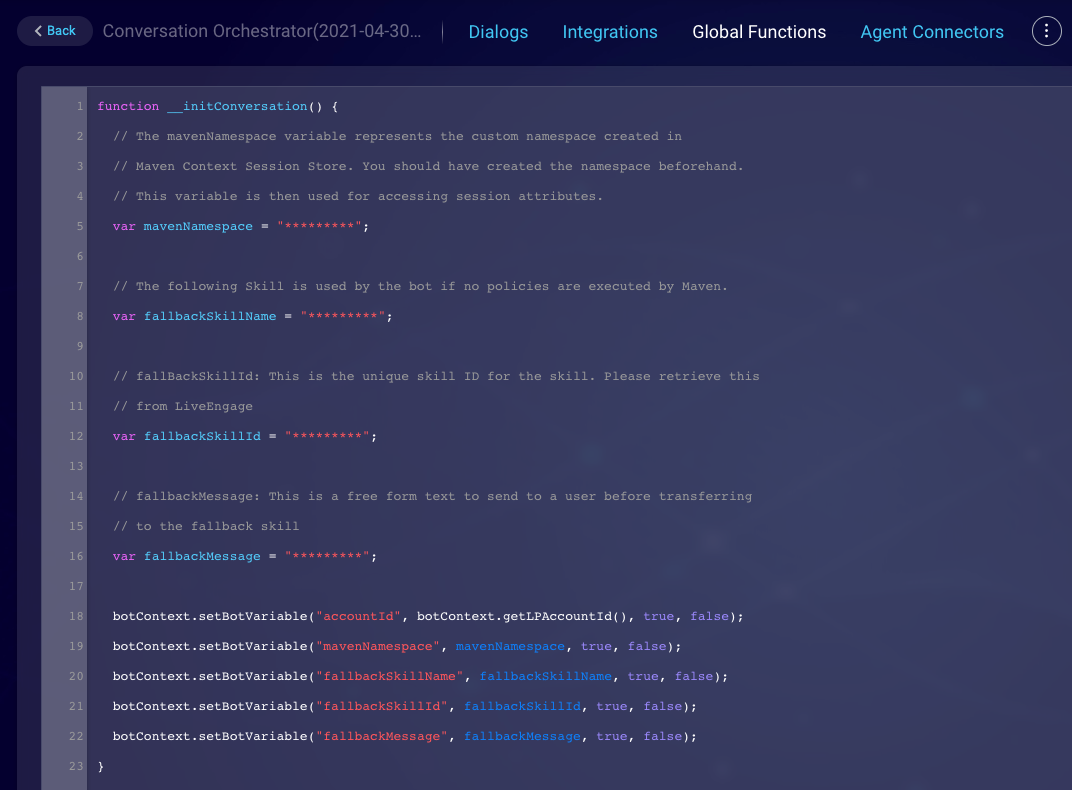
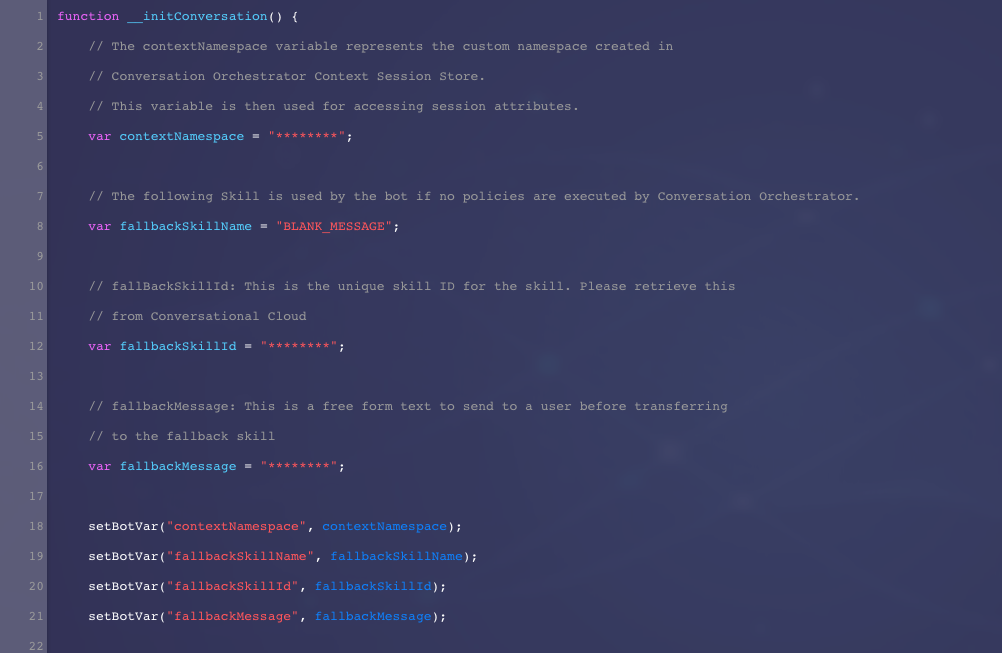
Integrate SME changes into bot template doc

diff --git a/pages/Documents/ConversationalAI/ConversationBuilder/BotTemplates/conversation-orchestrator.md b/pages/Documents/ConversationalAI/ConversationBuilder/BotTemplates/conversation-orchestrator.md
@@ -47,7 +47,7 @@ The important environment related variables are stored in the **Global Functions
 
 Open the bot. On the top navigation click **Global Functions** and edit the following fields:
 
-* `mavenNamespace`: Please enter the Namespace you have defined in your [Conversation Context Service](conversation-orchestrator-conversation-context-service-overview.html) for storing and retrieving session variables.
+* `contextNamespace`: Please enter the namespace you have defined in your [Conversation Context Service](conversation-orchestrator-conversation-context-service-overview.html) for storing and retrieving session variables.
 * `fallbackSkillName`: Please enter the skill name for the fall back skill. This skill is used by the bot if no policies are executed by Conversation Orchestrator.
 * `fallbackSkillId`: Please enter the skill ID for the fall back skill. This skill is used by the bot if no policies are executed by Conversation Orchestrator.
 * `fallbackMessage`: Please enter a message to send to customer when the fallback route.
@@ -58,84 +58,85 @@ Configure Conversational Cloud and deploy the bot.
 
 ### Pre/post-process code
 
-The *text_question_3* interaction contains the following **Process User Response** code to use botContext methods to store the phone number in the Conversation Context Service.
+The *COLLECT_PHONE_NUMBER* interaction contains the following **Process User Response** code to use botContext methods to store the phone number in the Conversation Context Service.
 
 ```javascript
-var mavenNamespace = getVar("mavenNamespace");
-var success = botContext.registerContextNamespace(mavenNamespace);
-botContext.printDebugMessage("Maven registerContextNamespace:: " + success);
+// Retrieve namespace bot variable and register context namespace
+var contextNamespace = getBotVar("contextNamespace");
+var success = botContext.registerContextNamespace(contextNamespace);
+debugMsg("Conversation Orchestrator registerContextNamespace:: " + success);
  
-// NEED TO ADD COMMENTS TO EXPLAIN
-var phoneNumber = getVar("phoneNumber");
-botContext.setContextDataForConversation(mavenNamespace, "phoneNumber", phoneNumber);
+// Pull in the phoneNumber variable captured in the conditions and set to the Conversation scoping in the Conversation Context Service
+var phoneNumber = getBotVar("phoneNumber");
+setContextConv("phoneNumber", phoneNumber);
  
-var convId = botContext.getConversationId();
-setSessionVar("conversationId", convId, true, false);
- 
-botContext.logCustomEvent(botContext.getCurrentUserMessage(), "Maven Session Store","Maven Session Store was called for namespace labelled '"+ getVar("mavenNamespace") + "' for account '" + getVar("accountId") + "' ("+ convId + ")");
+// Custom Event Logging for setting Context Session Store
+logEventAdv(getUserMessage(), "Conversation Orchestrator Session Store","Maven Session Store was called for namespace labelled '"+ getBotVar("contextNamespace") + "' for account '" + getBotVar("accountId") + "' ("+ getBotVar('conversationId') + ")");
 ```
 
-The *text_4* interaction contains the following **Pre-Process Code** which uses botContext methods to call the Recommendations API and retrieve the matched routing policy. This policy is then used in the setTransferParameters function to prepare the escalation integration.
+The *PROCESS_ASKMAVEN* interaction contains the following **Pre-Process Code** which uses botContext methods to call the Recommendations API and retrieve the matched routing policy. This policy is then used in the setTransferParameters function to prepare the escalation integration.
 
 ```javascript
-var convId = getVar("conversationId");
-var customerInfo = botContext.getLPCustomerInfo();
+// Call Conversation Orchestrator Recommendation API
+var orchestratorRecommendations = botContext.askMaven();
+var data = JSON.parse(orchestratorRecommendations);
+debugMsg("Maven Recommendations:: " + orchestratorRecommendations);
  
-if(customerInfo){
-   var customerId = customerInfo.customerId;
-   botContext.setBotVariable("customerId",customerId,true,false);
-}
+// Custom Event Log for askMaven response
+logEventAdv(getUserMessage(), "Ask Maven","Ask Maven was called for namespace '"+ getBotVar("contextNamespace") + "' for account '" + getBotVar("accountId") + "' ("+ getBotVar('conversationId') + ")");
  
-var mavenRecommendations = botContext.askMaven(convId,customerId,"");
-var data = JSON.parse(mavenRecommendations);
-botContext.printDebugMessage("Maven Recommentdations:: " + mavenRecommendations);
- 
-botContext.logCustomEvent(botContext.getCurrentUserMessage(), "Ask Maven","Ask Maven was called for namespace '"+ getVar("mavenNamespace") + "' for account '" + getVar("accountId") + "' ("+ convId + ")");
- 
-var actions = data.rule.actions;
- 
+// Set transfer param variables
 var agentId = null;
 var skillId = null;
 var skillName = null;
 var transferType = null;
  
-for (var action in actions) {
+// If a policy is matched, process the policy. If not, transfer via fallback
+if (data.rule) {
+ var actions = data.rule.actions;
  
- var type = actions[action].type;
+ for (var action in actions) {
+   var type = actions[action].type;
  
- switch (type) {
-   case "SEND_MESSAGE":
-     sendMessage(actions[action].payload.message);
-     break;
-   case "TRANSFER_TO_AGENT":
-     agentId = botContext.getLPAccountId()+'.'+ actions[action].payload.userId;
-     skillId = actions[action].payload.skillId || "-1";
-     transferType = "TRANSFER_TO_AGENT";
-     break;
-   case "TRANSFER_TO_SKILL":
-     skillId = actions[action].payload.skillId;
-     transferType = "TRANSFER_TO_SKILL";
-     break;
+   switch (type) {
+     case "SEND_MESSAGE":
+       sendMsg(actions[action].payload.message);
+       break;
+     case "TRANSFER_TO_AGENT":
+       agentId = getBotVar('accountId')+'.'+ actions[action].payload.userId;
+       skillId = actions[action].payload.skillId || "-1";
+       transferType = "TRANSFER_TO_AGENT";
+       setTransferParameters(agentId, skillId, skillName, transferType);
+       break;
+     case "TRANSFER_TO_SKILL":
+       skillId = actions[action].payload.skillId;
+       transferType = "TRANSFER_TO_SKILL";
+       setTransferParameters(agentId, skillId, skillName, transferType);
+       break;
+   }
  }
+} else {
+ sendMsg('No policy matched, routing to fallback skill');
+ setTransferParameters(agentId, skillId, skillName, transferType);
 }
-setTransferParameters(agentId, skillId, skillName, transferType);
 ```
 
-The *text_4* interaction contains the following **Post-Process Code** which takes the transferType variable and routes to the appropriate agent or skill escalation interaction.
+The *PROCESS_ASKMAVEN* interaction contains the following **Post-Process Code** which takes the transferType variable and routes to the appropriate agent or skill escalation interaction.
 
 ```javascript
-var transferType = getVar("transferType");
+// setTriggerNextMessage to appropriate transfer type
+var transferType = getBotVar("transferType");
  
 if (transferType) {
  switch (transferType) {
    case "TRANSFER_TO_AGENT":
-     botContext.setTriggerNextMessage("TRANSFER_TO_AGENT");
+     goNext("TRANSFER_TO_AGENT");
      break;
    case "TRANSFER_TO_SKILL":
-     botContext.setTriggerNextMessage("TRANSFER_TO_SKILL");
+     goNext("TRANSFER_TO_SKILL");
      break;
    default:
-     log("Policy had a transfer-type other than skill or agent.");
+     debugMsg("Policy had a transfer-type other than skill or agent.");
      break;
  }
 }
